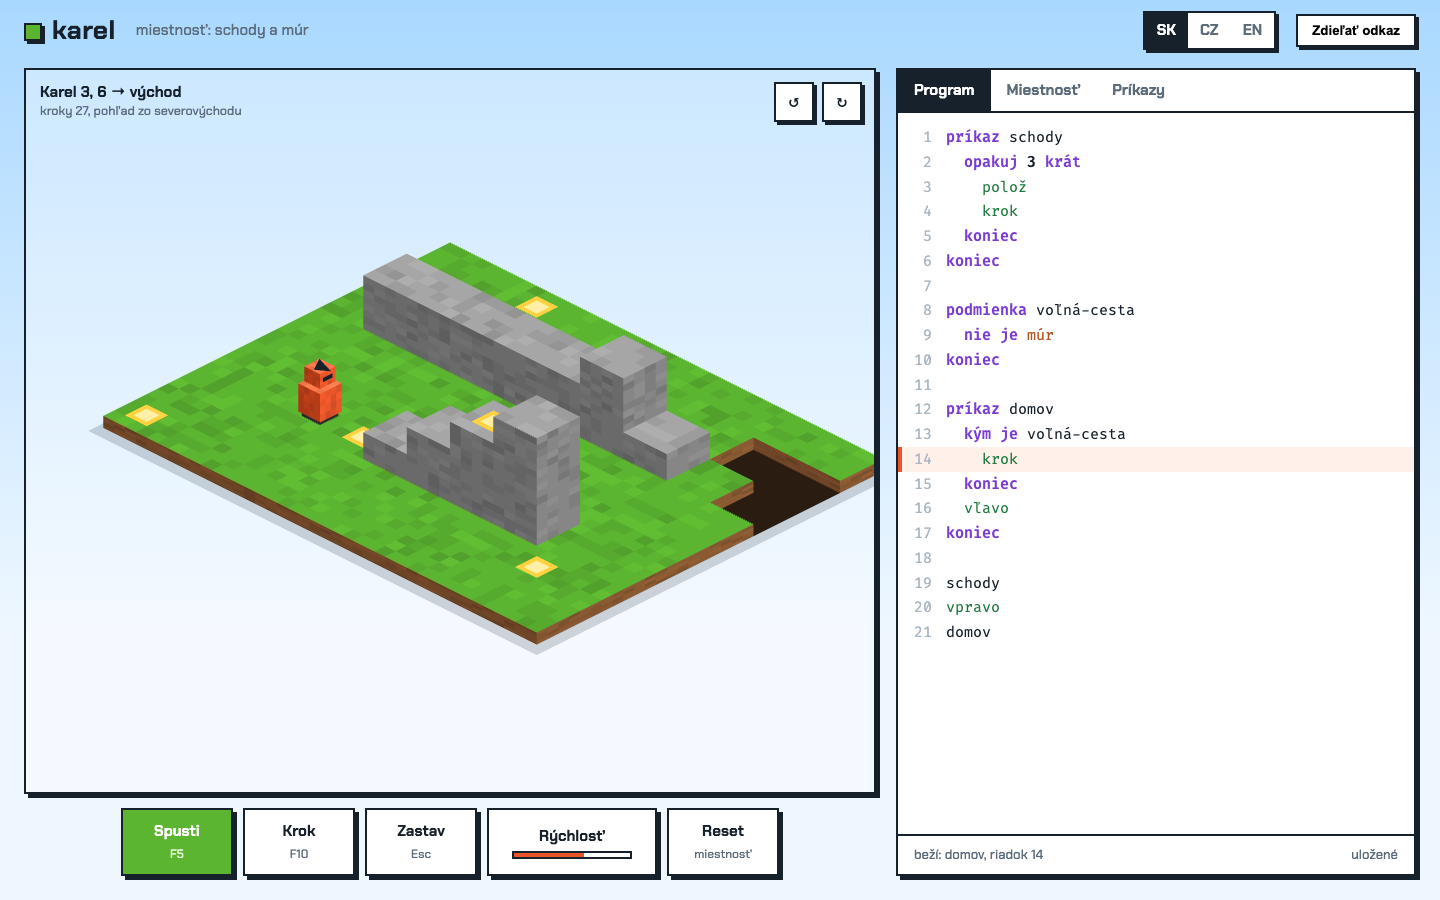
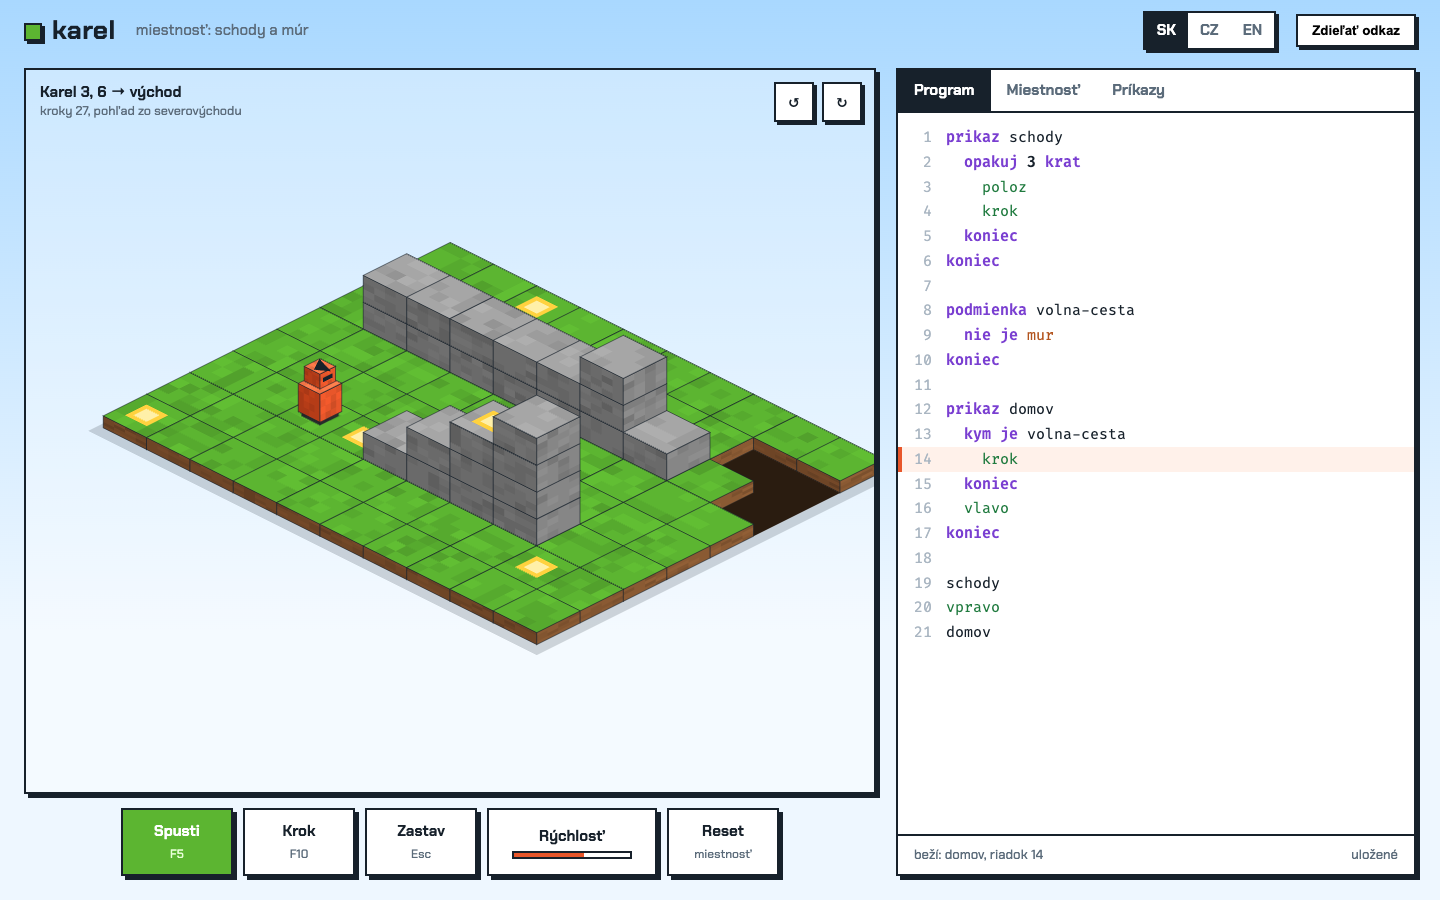
docs(design): B picked; edge lines on cubes and tiles, keywords without diacritics

diff --git a/design/mockups/editor.js b/design/mockups/editor.js
@@ -1,29 +1,29 @@
 // Mock editor: highlight the Slovak program, line numbers, optional autocomplete popup.
-const PROGRAM = `príkaz schody
-  opakuj 3 krát
-    polož
+const PROGRAM = `prikaz schody
+  opakuj 3 krat
+    poloz
     krok
   koniec
 koniec
 
-podmienka voľná-cesta
-  nie je múr
+podmienka volna-cesta
+  nie je mur
 koniec
 
-príkaz domov
-  kým je voľná-cesta
+prikaz domov
+  kym je volna-cesta
     krok
   koniec
-  vľavo
+  vlavo
 koniec
 
 schody
 vpravo
 domov`;
 
-const KW = ['príkaz','koniec','opakuj','krát','kým','ak','tak','inak','podmienka','je','nie'];
-const CMD = ['krok','vľavo','vpravo','polož','zdvihni','označ','odznač'];
-const PRED = ['múr','tehla','značka','voľno','pravda','nepravda'];
+const KW = ['prikaz','koniec','opakuj','krat','kym','ak','tak','inak','podmienka','je','nie'];
+const CMD = ['krok','vlavo','vpravo','poloz','zdvihni','oznac','odznac'];
+const PRED = ['mur','tehla','znacka','volno','pravda','nepravda'];
 
 function esc(s){return s.replace(/&/g,'&amp;').replace(/</g,'&lt;')}
 function hl(line){

diff --git a/design/mockups/b-overworld.html b/design/mockups/b-overworld.html
@@ -52,7 +52,7 @@ canvas{width:100%;height:100%;display:block}
 <script src="iso.js"></script><script src="editor.js"></script>
 <script>
 KarelEditor.mountEditor(document.getElementById('ed'),{activeLine:14});
-document.fonts.ready.then(()=>KarelIso.renderWorld(document.getElementById('cv'),{view:0,maxTile:52,palette:{
+document.fonts.ready.then(()=>KarelIso.renderWorld(document.getElementById('cv'),{view:0,maxTile:52,outline:'rgba(23,33,43,.6)',palette:{
  floorTop:'#5cb531',floorLeft:'#6e4526',floorRight:'#8a5a33',
  brickTop:'#a6a6a6',brickLeft:'#6a6a6a',brickRight:'#868686',
  mark:'#ffd23f',markInner:'#fff0a8',pit:'#2a1c10',plate:'rgba(23,33,43,.18)',
